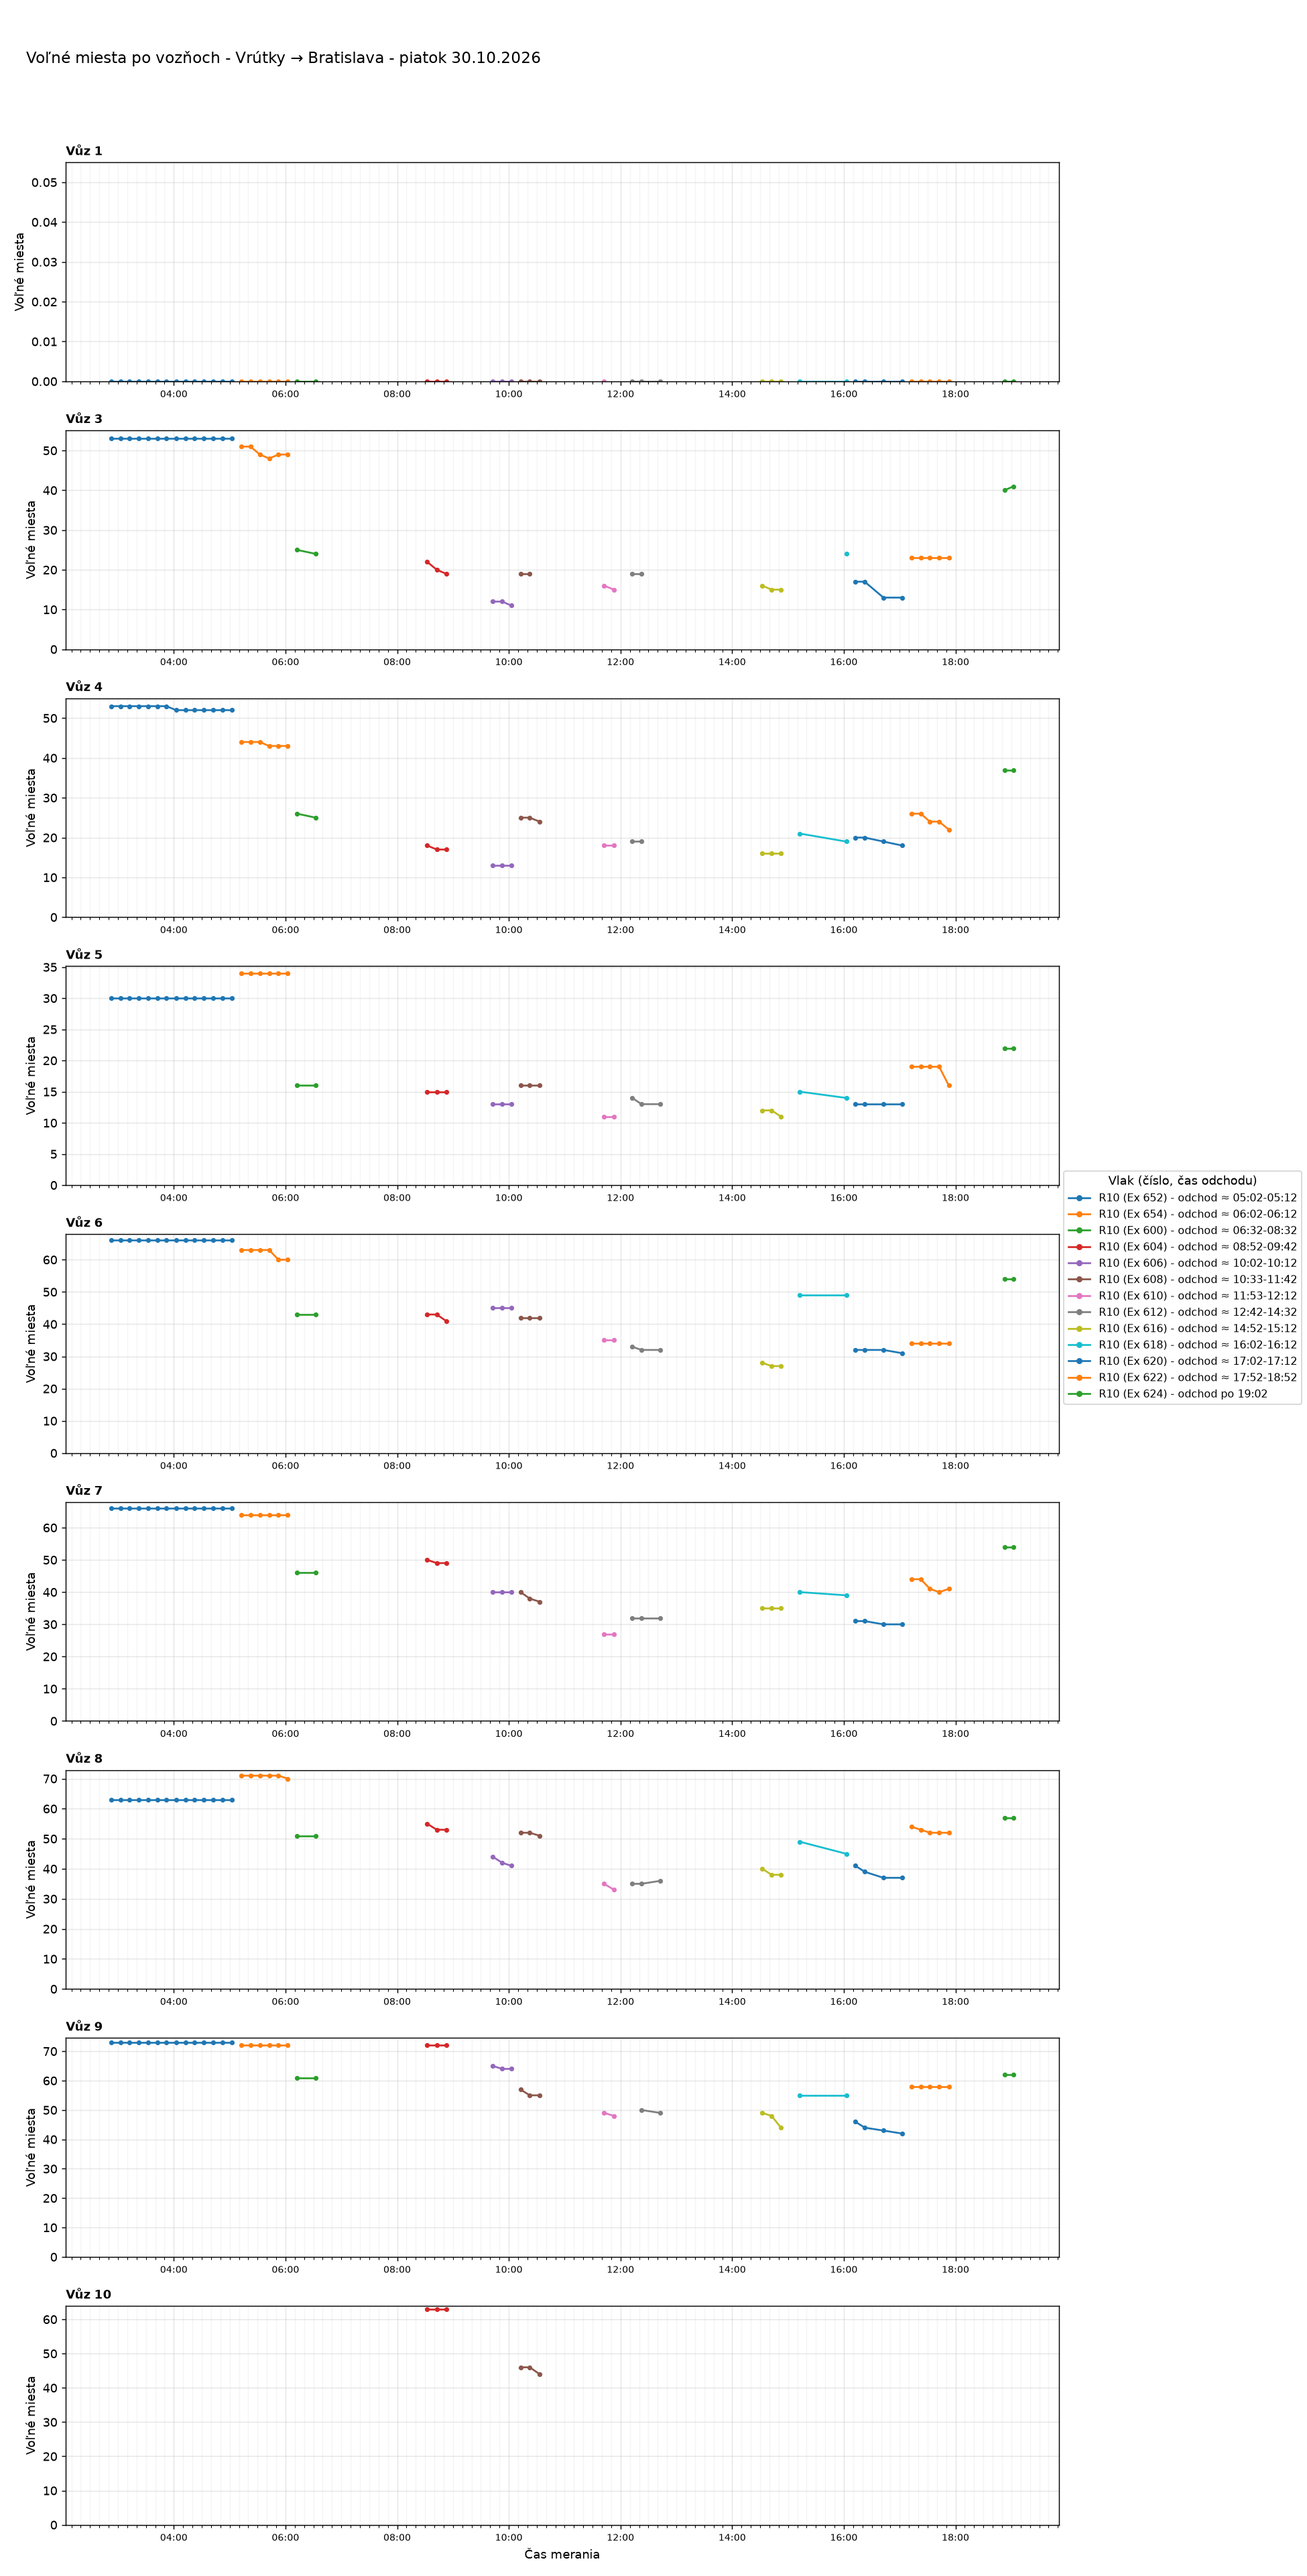
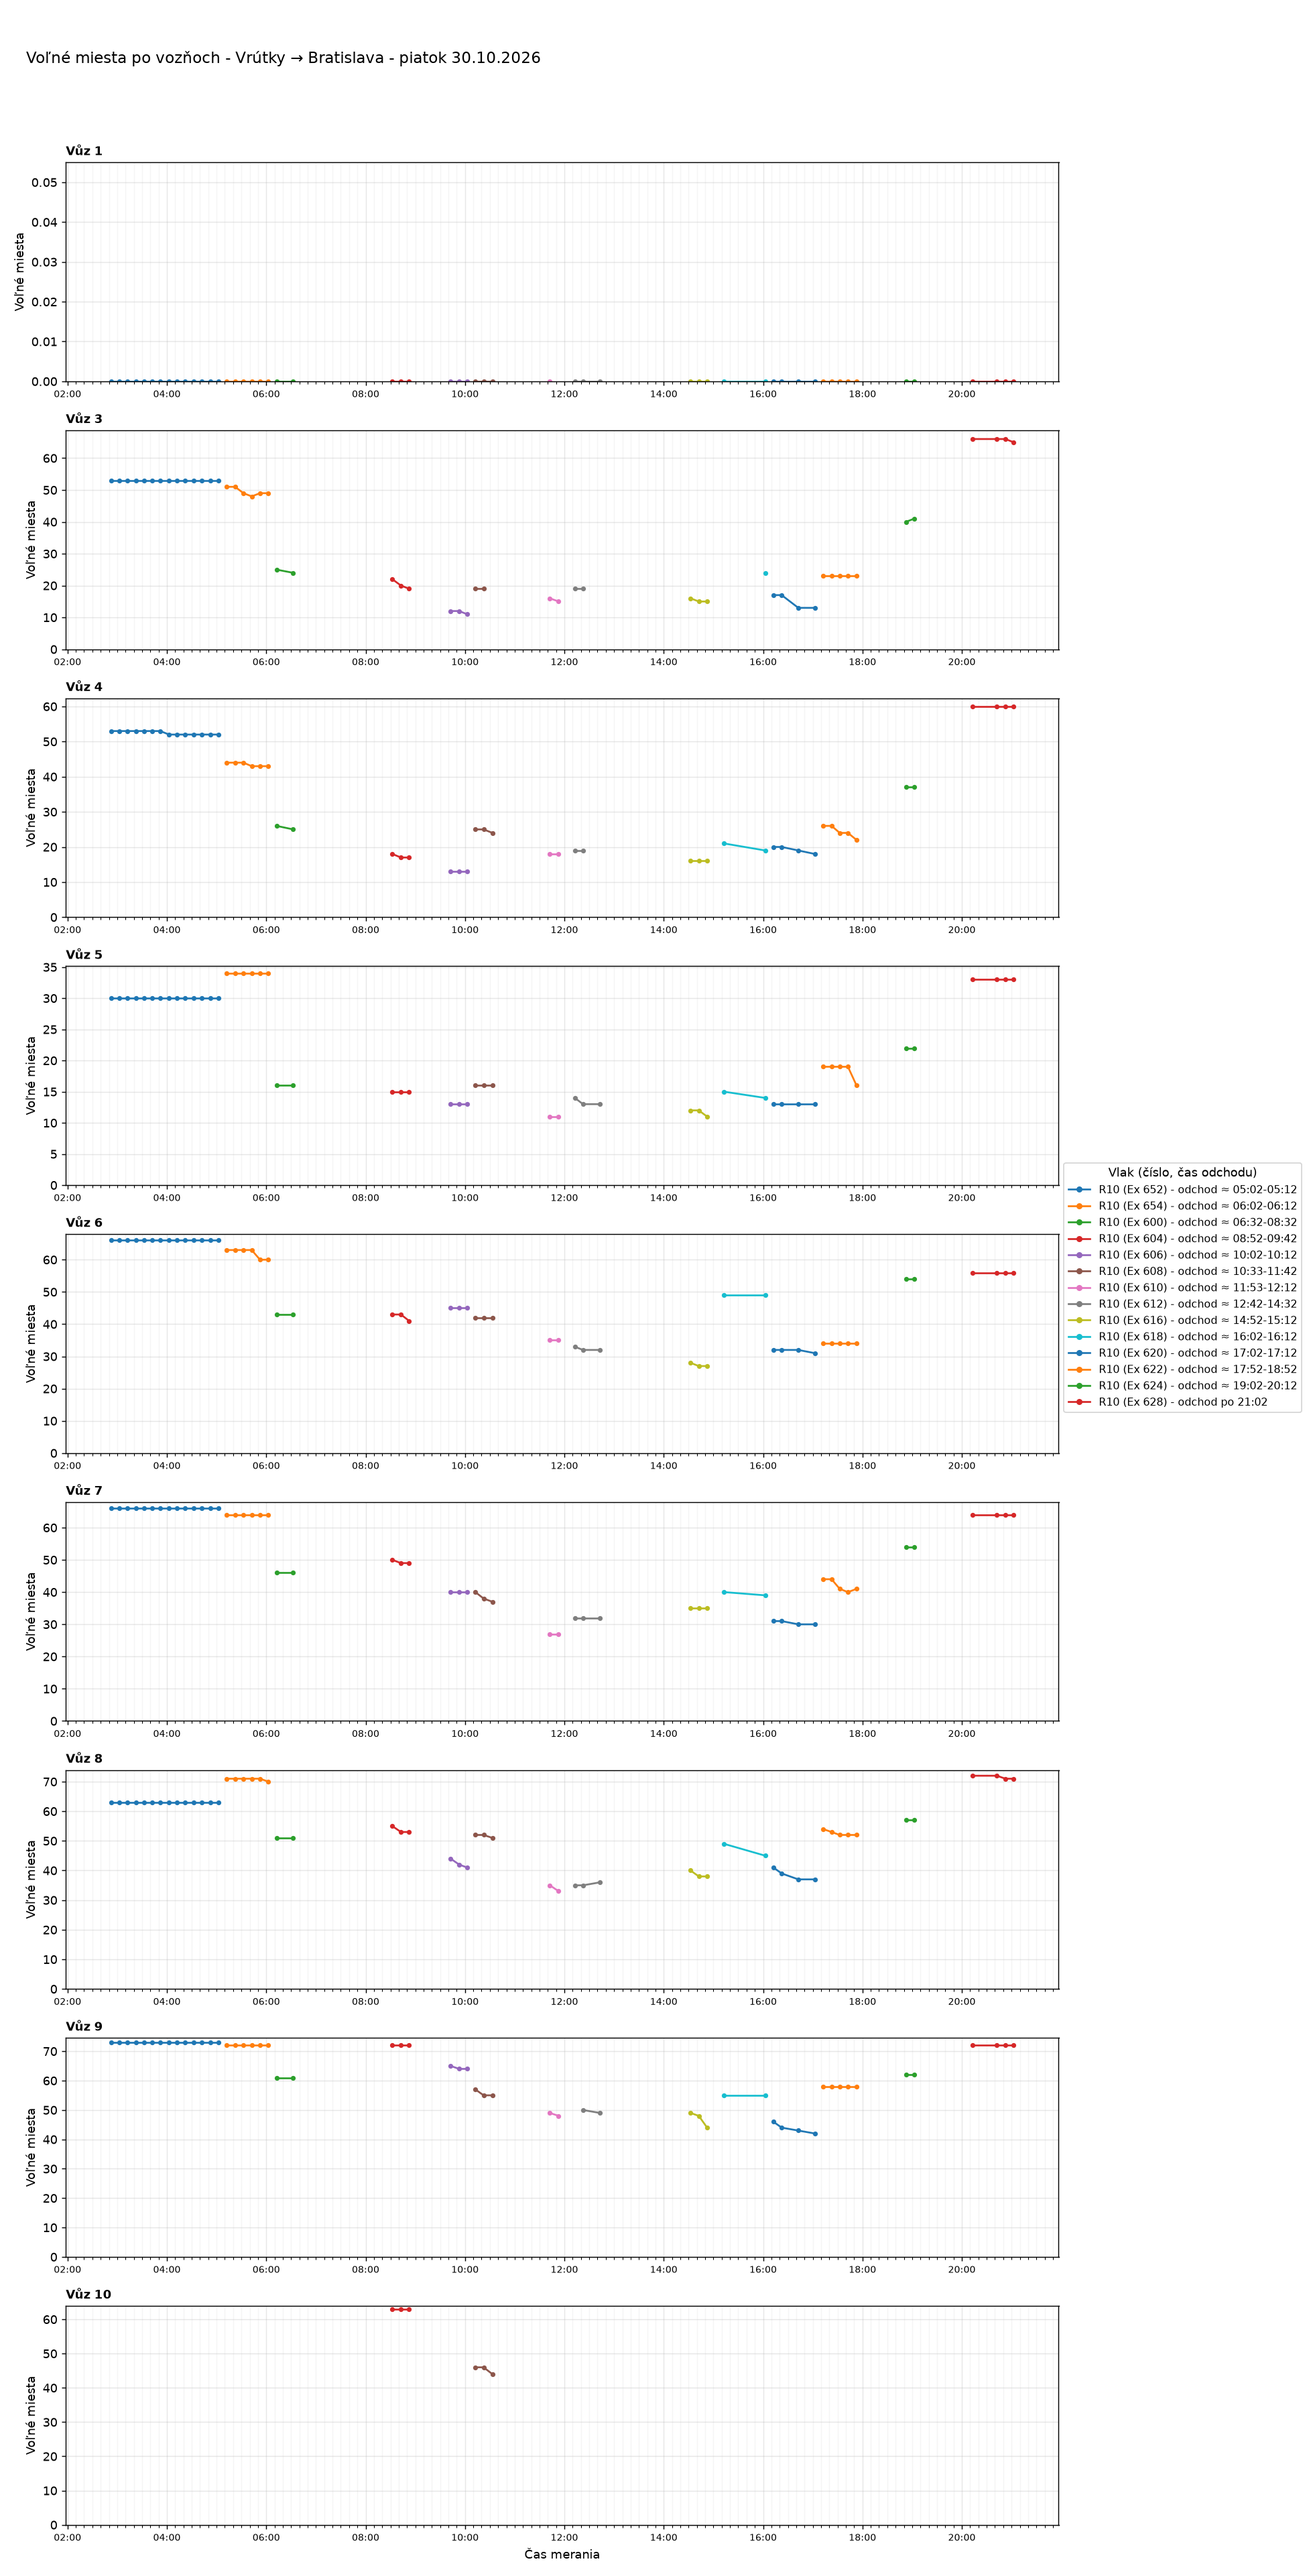
Aktualizácia grafov 2026-10-30 21:08

Changed region(s): [[0.8, 0.4372, 1.0, 0.5621], [0.0308, 0.687, 0.0615, 0.7182], [0.0308, 0.3123, 0.0615, 0.3435]]

diff --git a/index.html b/index.html
@@ -37,7 +37,7 @@ details.trasa>summary{cursor:pointer;font-weight:600;font-size:1.1rem;padding:8p
 <body>
 <main>
 <h1>Voľné miesta vo vlakoch</h1>
-<p class="muted">Posledné meranie: 30.10.2026 19:52 ·
+<p class="muted">Posledné meranie: 30.10.2026 21:02 ·
 <a href="data/obsadenost_data.csv">stiahnuť dáta (CSV)</a></p>
 <nav class="nav"><a href="#suhrn">Súhrn</a><a href="#statistiky">Štatistiky</a><a href="#historia">História grafov</a></nav>
 
@@ -46,8 +46,8 @@ details.trasa>summary{cursor:pointer;font-weight:600;font-size:1.1rem;padding:8p
 <div class="tablewrap"><table>
 <thead><tr><th>Deň</th><th>Trasa</th><th>Meraní</th><th>Vlakov</th><th>Čas meraní</th></tr></thead>
 <tbody>
-<tr><td><a href="#dBA-VR-2026-10-30">piatok 30.10.2026</a></td><td>Bratislava → Vrútky</td><td>64</td><td>16</td><td>00:31-19:52</td></tr>
-<tr><td><a href="#dVR-BA-2026-10-30">piatok 30.10.2026</a></td><td>Vrútky → Bratislava</td><td>52</td><td>13</td><td>02:52-19:02</td></tr>
+<tr><td><a href="#dBA-VR-2026-10-30">piatok 30.10.2026</a></td><td>Bratislava → Vrútky</td><td>65</td><td>16</td><td>00:31-20:11</td></tr>
+<tr><td><a href="#dVR-BA-2026-10-30">piatok 30.10.2026</a></td><td>Vrútky → Bratislava</td><td>56</td><td>14</td><td>02:52-21:02</td></tr>
 <tr><td><a href="#dBA-KE-2026-10-30">piatok 30.10.2026</a></td><td>Bratislava → Košice</td><td>50</td><td>12</td><td>00:22-17:53</td></tr>
 <tr><td><a href="#dKE-BA-2026-10-30">piatok 30.10.2026</a></td><td>Košice → Bratislava</td><td>41</td><td>12</td><td>00:23-17:54</td></tr>
 <tr><td><a href="#dBA-VR-2026-10-29">štvrtok 29.10.2026</a></td><td>Bratislava → Vrútky</td><td>84</td><td>14</td><td>00:01-23:31</td></tr>
